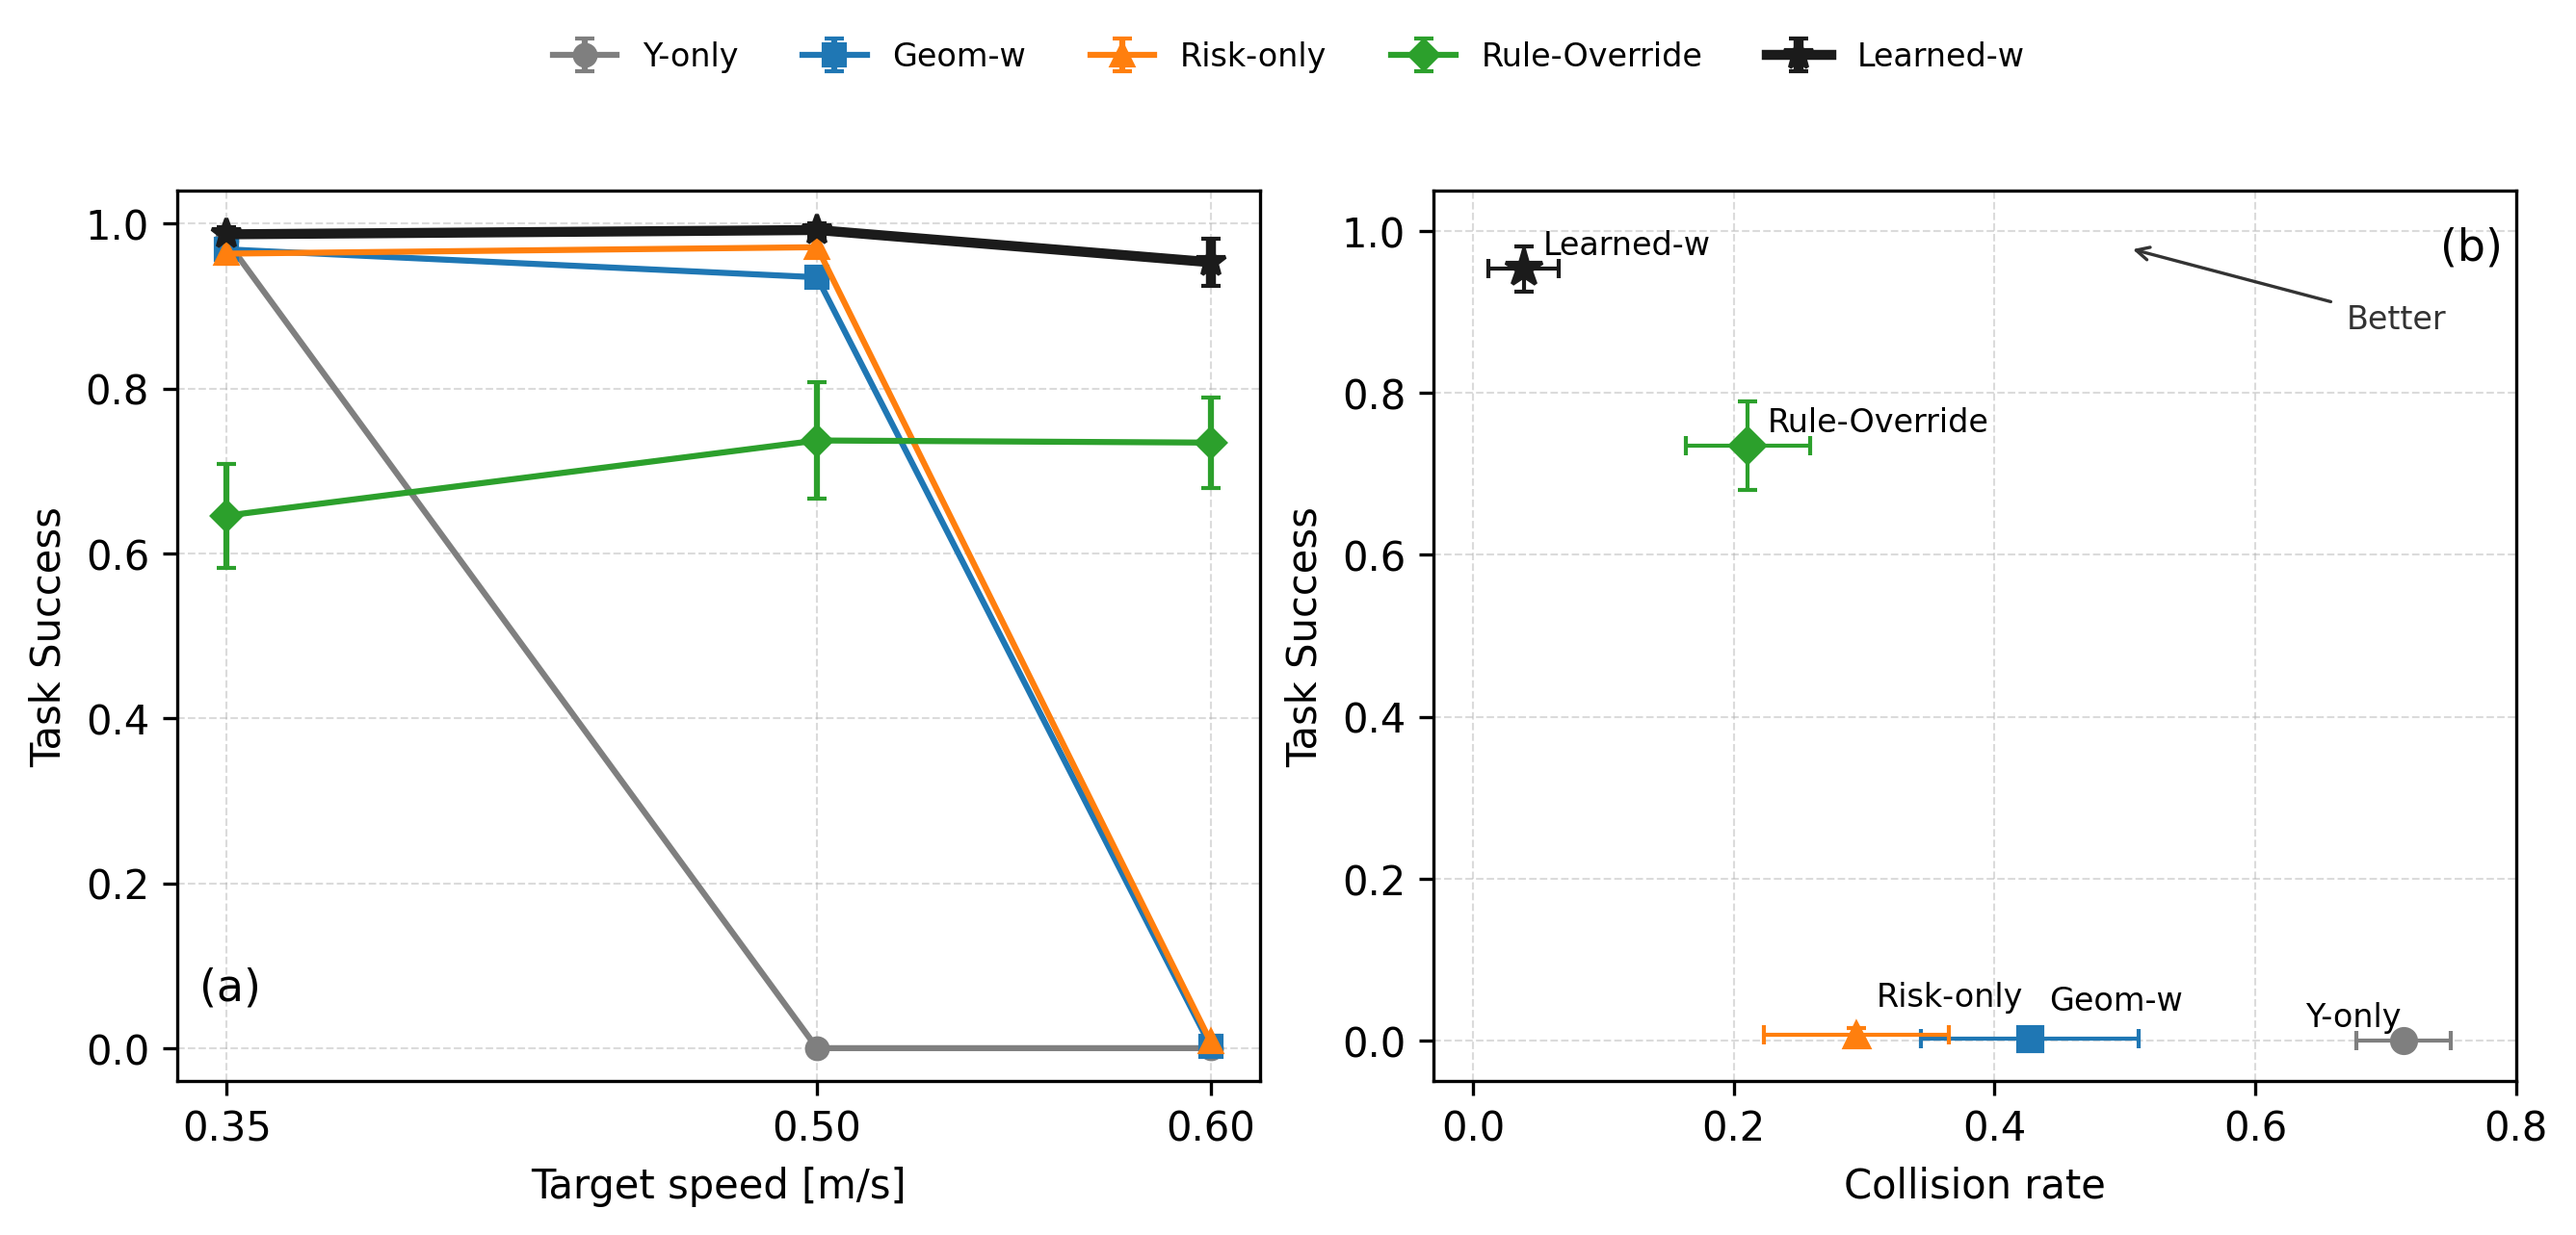
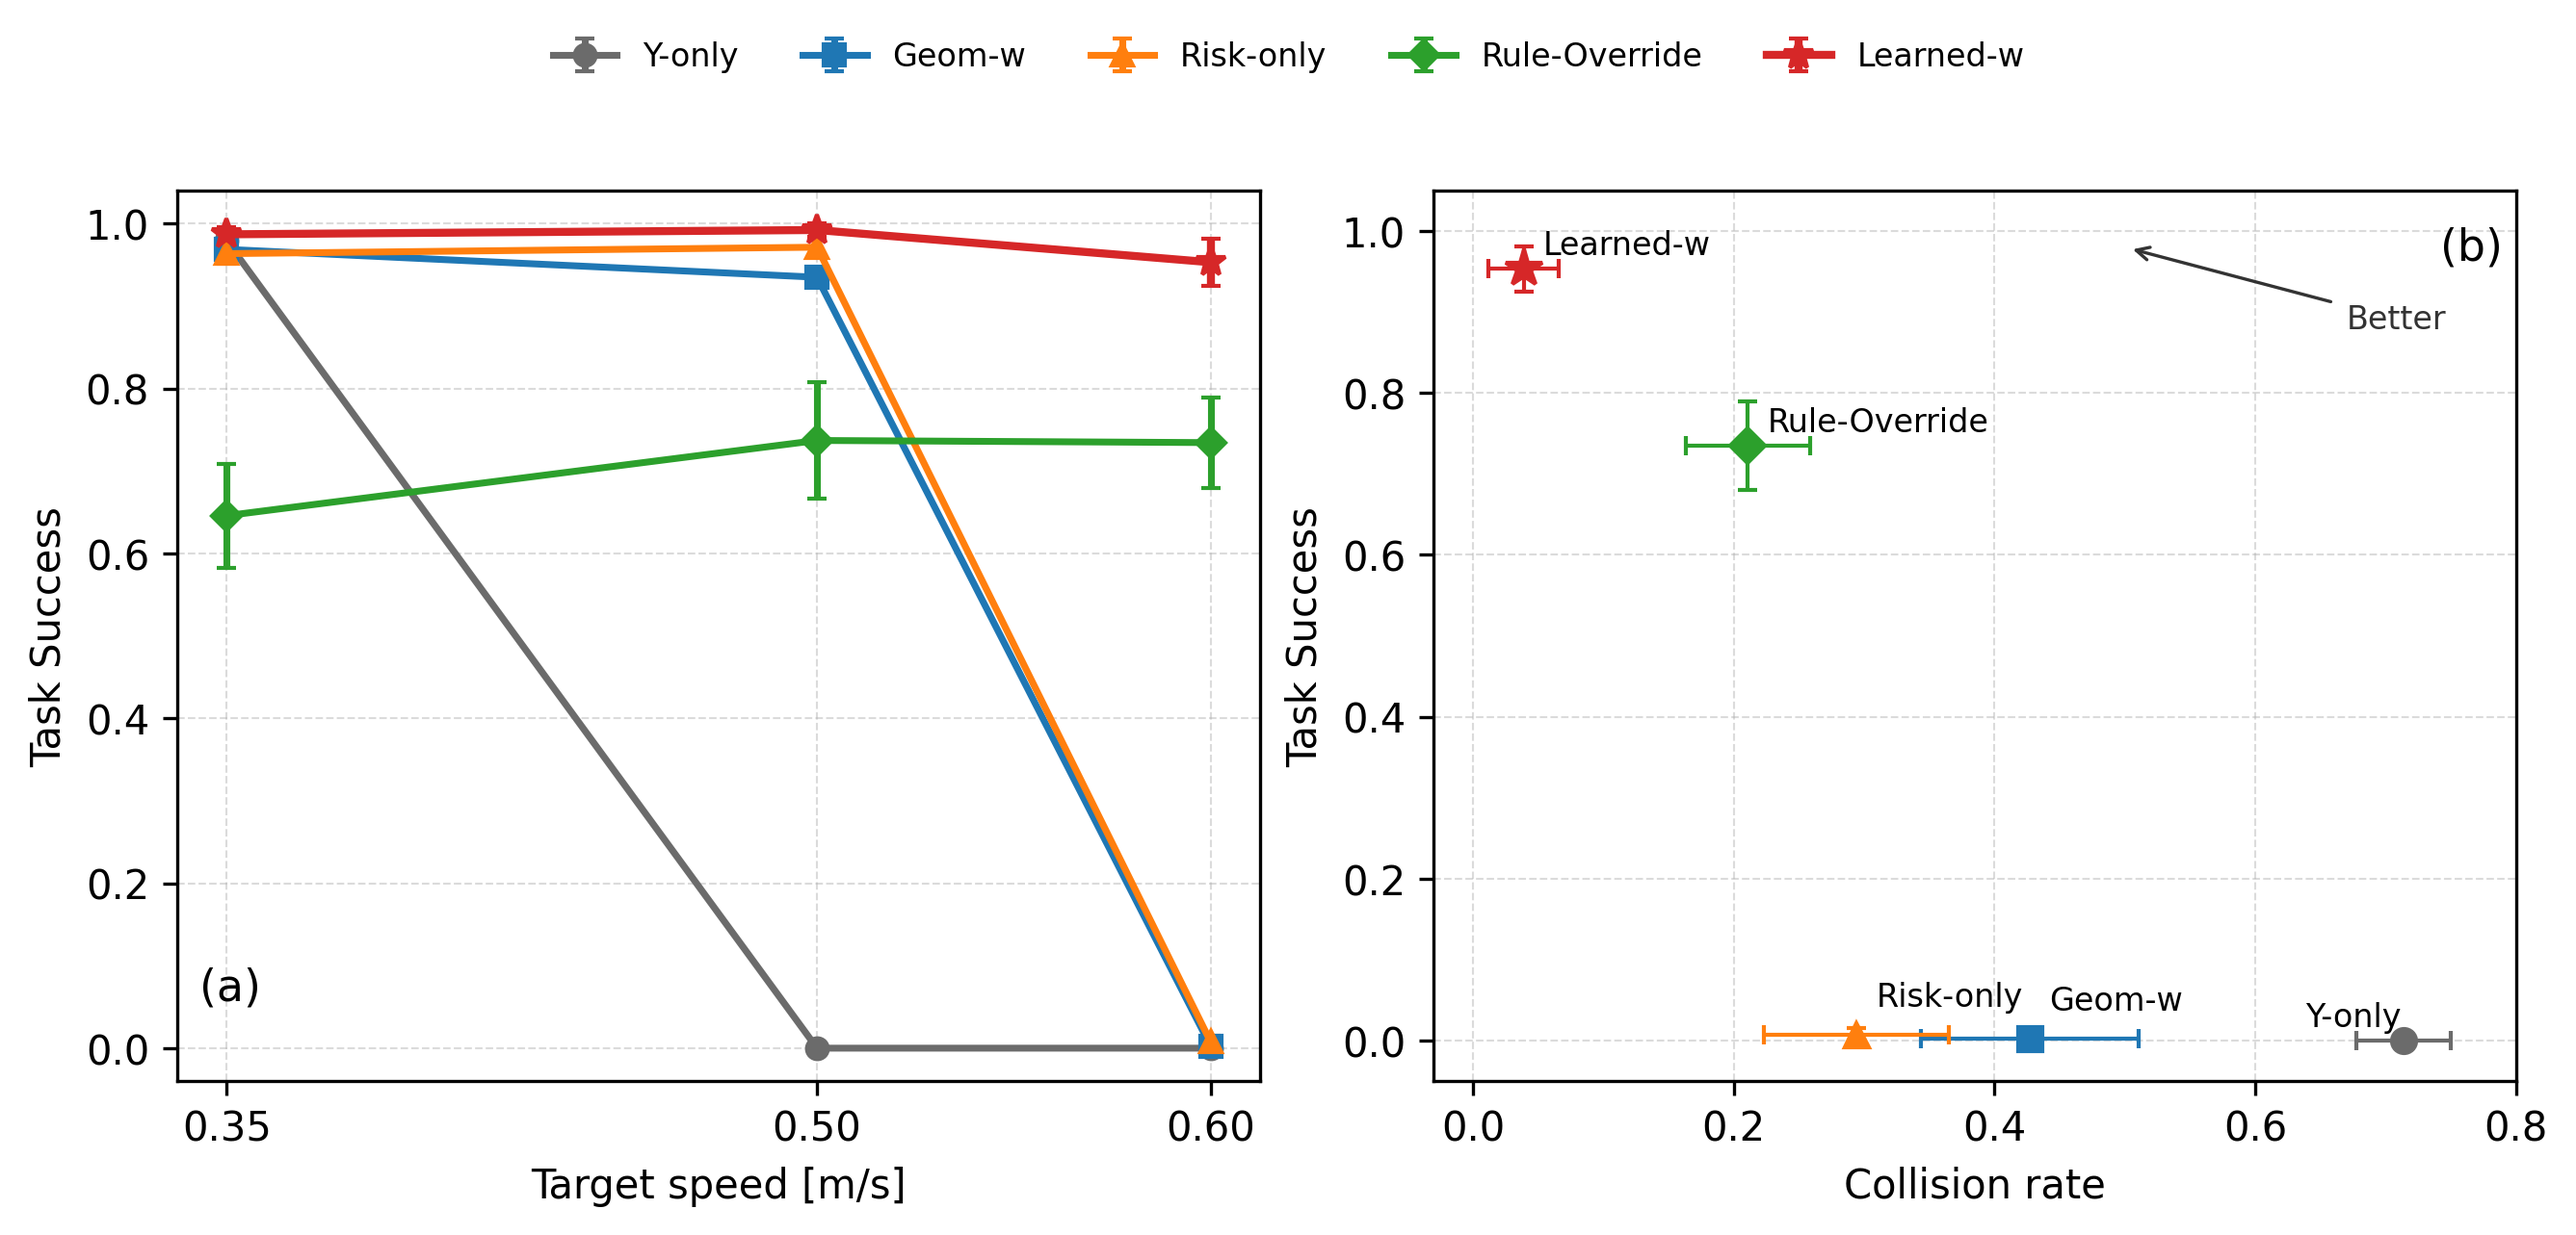
1

diff --git a/agents/final_paper_outputs_v3/tableA1_ppo_hyperparams.tex b/agents/final_paper_outputs_v3/tableA1_ppo_hyperparams.tex
@@ -5,7 +5,7 @@ Item & Value & Source \\
 Algorithm & PPO custom loop & train\_highlevel.py \\
 Steps per iter & 24 & train\_highlevel.py --num\_steps default \\
 Num envs & 256 & paper command argument \\
-Learning rate & 1.5e-5 & train\_highlevel.py --lr default \\
+Learning rate & 6e-5 & paper training command \\
 Gamma & 0.99 & train\_highlevel.py --gamma default \\
 GAE lambda & 0.95 & train\_highlevel.py --gae\_lambda default \\
 Entropy coef & 0.01 & train\_highlevel.py --entropy\_coef default \\

diff --git a/agents/eval_data_fig6_trajectories_worldxy/pcr_main_table/pcr_main_table_aggregate_20260612_044839.md b/agents/eval_data_fig6_trajectories_worldxy/pcr_main_table/pcr_main_table_aggregate_20260612_044839.md
@@ -1,0 +1,17 @@
+| Speed | Method | Task Success | Collision | Follow MAE | Unsafe Rate | C_avoid Rate | CSI@C_avoid |
+| ---: | --- | ---: | ---: | ---: | ---: | ---: | ---: |
+| 0.35 | yonly | 0.922 +/- 0.000 | 0.078 +/- 0.000 | 0.220 +/- 0.000 | 0.211 +/- 0.000 | 0.075 +/- 0.000 | 0.000 +/- 0.000 |
+| 0.35 | geomw | 0.953 +/- 0.000 | 0.047 +/- 0.000 | 0.179 +/- 0.000 | 0.199 +/- 0.000 | 0.069 +/- 0.000 | 0.000 +/- 0.000 |
+| 0.35 | risk_only | 0.953 +/- 0.000 | 0.047 +/- 0.000 | 0.236 +/- 0.000 | 0.227 +/- 0.000 | 0.095 +/- 0.000 | 0.000 +/- 0.000 |
+| 0.35 | rule_override | 0.703 +/- 0.000 | 0.266 +/- 0.000 | 0.239 +/- 0.000 | 0.209 +/- 0.000 | 0.094 +/- 0.000 | 0.279 +/- 0.000 |
+| 0.35 | learnedw | 0.969 +/- 0.000 | 0.031 +/- 0.000 | 0.159 +/- 0.000 | 0.231 +/- 0.000 | 0.091 +/- 0.000 | -0.063 +/- 0.000 |
+| 0.50 | yonly | 0.000 +/- 0.000 | 0.203 +/- 0.000 | 1.050 +/- 0.000 | 0.159 +/- 0.000 | 0.065 +/- 0.000 | 0.000 +/- 0.000 |
+| 0.50 | geomw | 0.875 +/- 0.000 | 0.125 +/- 0.000 | 0.477 +/- 0.000 | 0.208 +/- 0.000 | 0.089 +/- 0.000 | 0.000 +/- 0.000 |
+| 0.50 | risk_only | 0.969 +/- 0.000 | 0.031 +/- 0.000 | 0.566 +/- 0.000 | 0.271 +/- 0.000 | 0.130 +/- 0.000 | 0.000 +/- 0.000 |
+| 0.50 | rule_override | 0.641 +/- 0.000 | 0.328 +/- 0.000 | 0.542 +/- 0.000 | 0.214 +/- 0.000 | 0.089 +/- 0.000 | 0.279 +/- 0.000 |
+| 0.50 | learnedw | 1.000 +/- 0.000 | 0.000 +/- 0.000 | 0.406 +/- 0.000 | 0.285 +/- 0.000 | 0.121 +/- 0.000 | -0.061 +/- 0.000 |
+| 0.60 | yonly | 0.000 +/- 0.000 | 0.375 +/- 0.000 | 1.319 +/- 0.000 | 0.250 +/- 0.000 | 0.109 +/- 0.000 | 0.000 +/- 0.000 |
+| 0.60 | geomw | 0.422 +/- 0.000 | 0.188 +/- 0.000 | 1.368 +/- 0.000 | 0.134 +/- 0.000 | 0.061 +/- 0.000 | 0.001 +/- 0.000 |
+| 0.60 | risk_only | 0.453 +/- 0.000 | 0.141 +/- 0.000 | 1.092 +/- 0.000 | 0.232 +/- 0.000 | 0.106 +/- 0.000 | -0.000 +/- 0.000 |
+| 0.60 | rule_override | 0.516 +/- 0.000 | 0.328 +/- 0.000 | 0.813 +/- 0.000 | 0.254 +/- 0.000 | 0.112 +/- 0.000 | 0.279 +/- 0.000 |
+| 0.60 | learnedw | 0.906 +/- 0.000 | 0.031 +/- 0.000 | 0.818 +/- 0.000 | 0.256 +/- 0.000 | 0.112 +/- 0.000 | -0.062 +/- 0.000 |

diff --git a/agents/final_paper_outputs_v3/MANIFEST.md b/agents/final_paper_outputs_v3/MANIFEST.md
@@ -6,6 +6,10 @@ Generated files:
 - fig3_main_performance.png
 - fig4_mechanism.pdf
 - fig4_mechanism.png
+- fig6_trajectories_stage4.pdf
+- fig6_trajectories_stage4.png
+- fig6_trajectories_stage4_sources.csv
+- fig6_trajectory_episode_candidates.csv
 - table1_main_performance_stage4.csv
 - table1_main_performance_stage4.md
 - table1_main_performance_stage4.tex
@@ -42,6 +46,7 @@ Source files and paths:
 - mono_stage3_path: `agents/eval_data_mono_targetview_stage_probe/stage3_s035` (mtime=2026-06-04 17:28:17)
 - mono_stage4_all_csv: `agents/eval_data_mono_targetview/pcr_main_table/pcr_main_table_all_metrics_20260604_160305.csv` (mtime=2026-06-04 16:03:05)
 - learnedw_mechanism_dir: `agents/eval_data/s_0.6/moe_teacher_s_pcr_line_avoid_basic_learnedw2_signed_lam0.3_gam0.15_m0.05_rowrel_aux0.05_riskmem_lc0.4_seed1_20260526_204857` (mtime=2026-05-27 14:30:15)
+- fig6_timeseries_root: `agents/eval_data_fig6_trajectories_worldxy` (mtime=2026-06-12 04:48:53)
 
 Risk-only source mode:
 
@@ -57,4 +62,5 @@ Validation checklist:
 - Table II: Params should separate Risk-only and Learned-w.
 - Table A5: contains Delta y_w / Delta y_r / Delta y_total over All, C_unsafe, C_avoid.
 - Fig.4: x-axis label must be Conflict intensity and Delta y must equal y_eff - y_raw.
+- Fig.6: if requested, timeseries must contain robot_x/y, target_x/y, obstacles_json, episode_termination_reason, and trajectory_frame=world_xy_train_play; default episode selection prefers learned-w success with baseline collision/failure.
 - Table III: expected stages 2, 3, and 4; use --allow_incomplete_mono_stage_probe only for local dry-runs.

diff --git a/agents/final_paper_outputs_v3/tableA1_ppo_hyperparams.md b/agents/final_paper_outputs_v3/tableA1_ppo_hyperparams.md
@@ -3,7 +3,7 @@
 | Algorithm | PPO custom loop | train_highlevel.py |
 | Steps per iter | 24 | train_highlevel.py --num_steps default |
 | Num envs | 256 | paper command argument |
-| Learning rate | 1.5e-5 | train_highlevel.py --lr default |
+| Learning rate | 6e-5 | paper training command |
 | Gamma | 0.99 | train_highlevel.py --gamma default |
 | GAE lambda | 0.95 | train_highlevel.py --gae_lambda default |
 | Entropy coef | 0.01 | train_highlevel.py --entropy_coef default |
